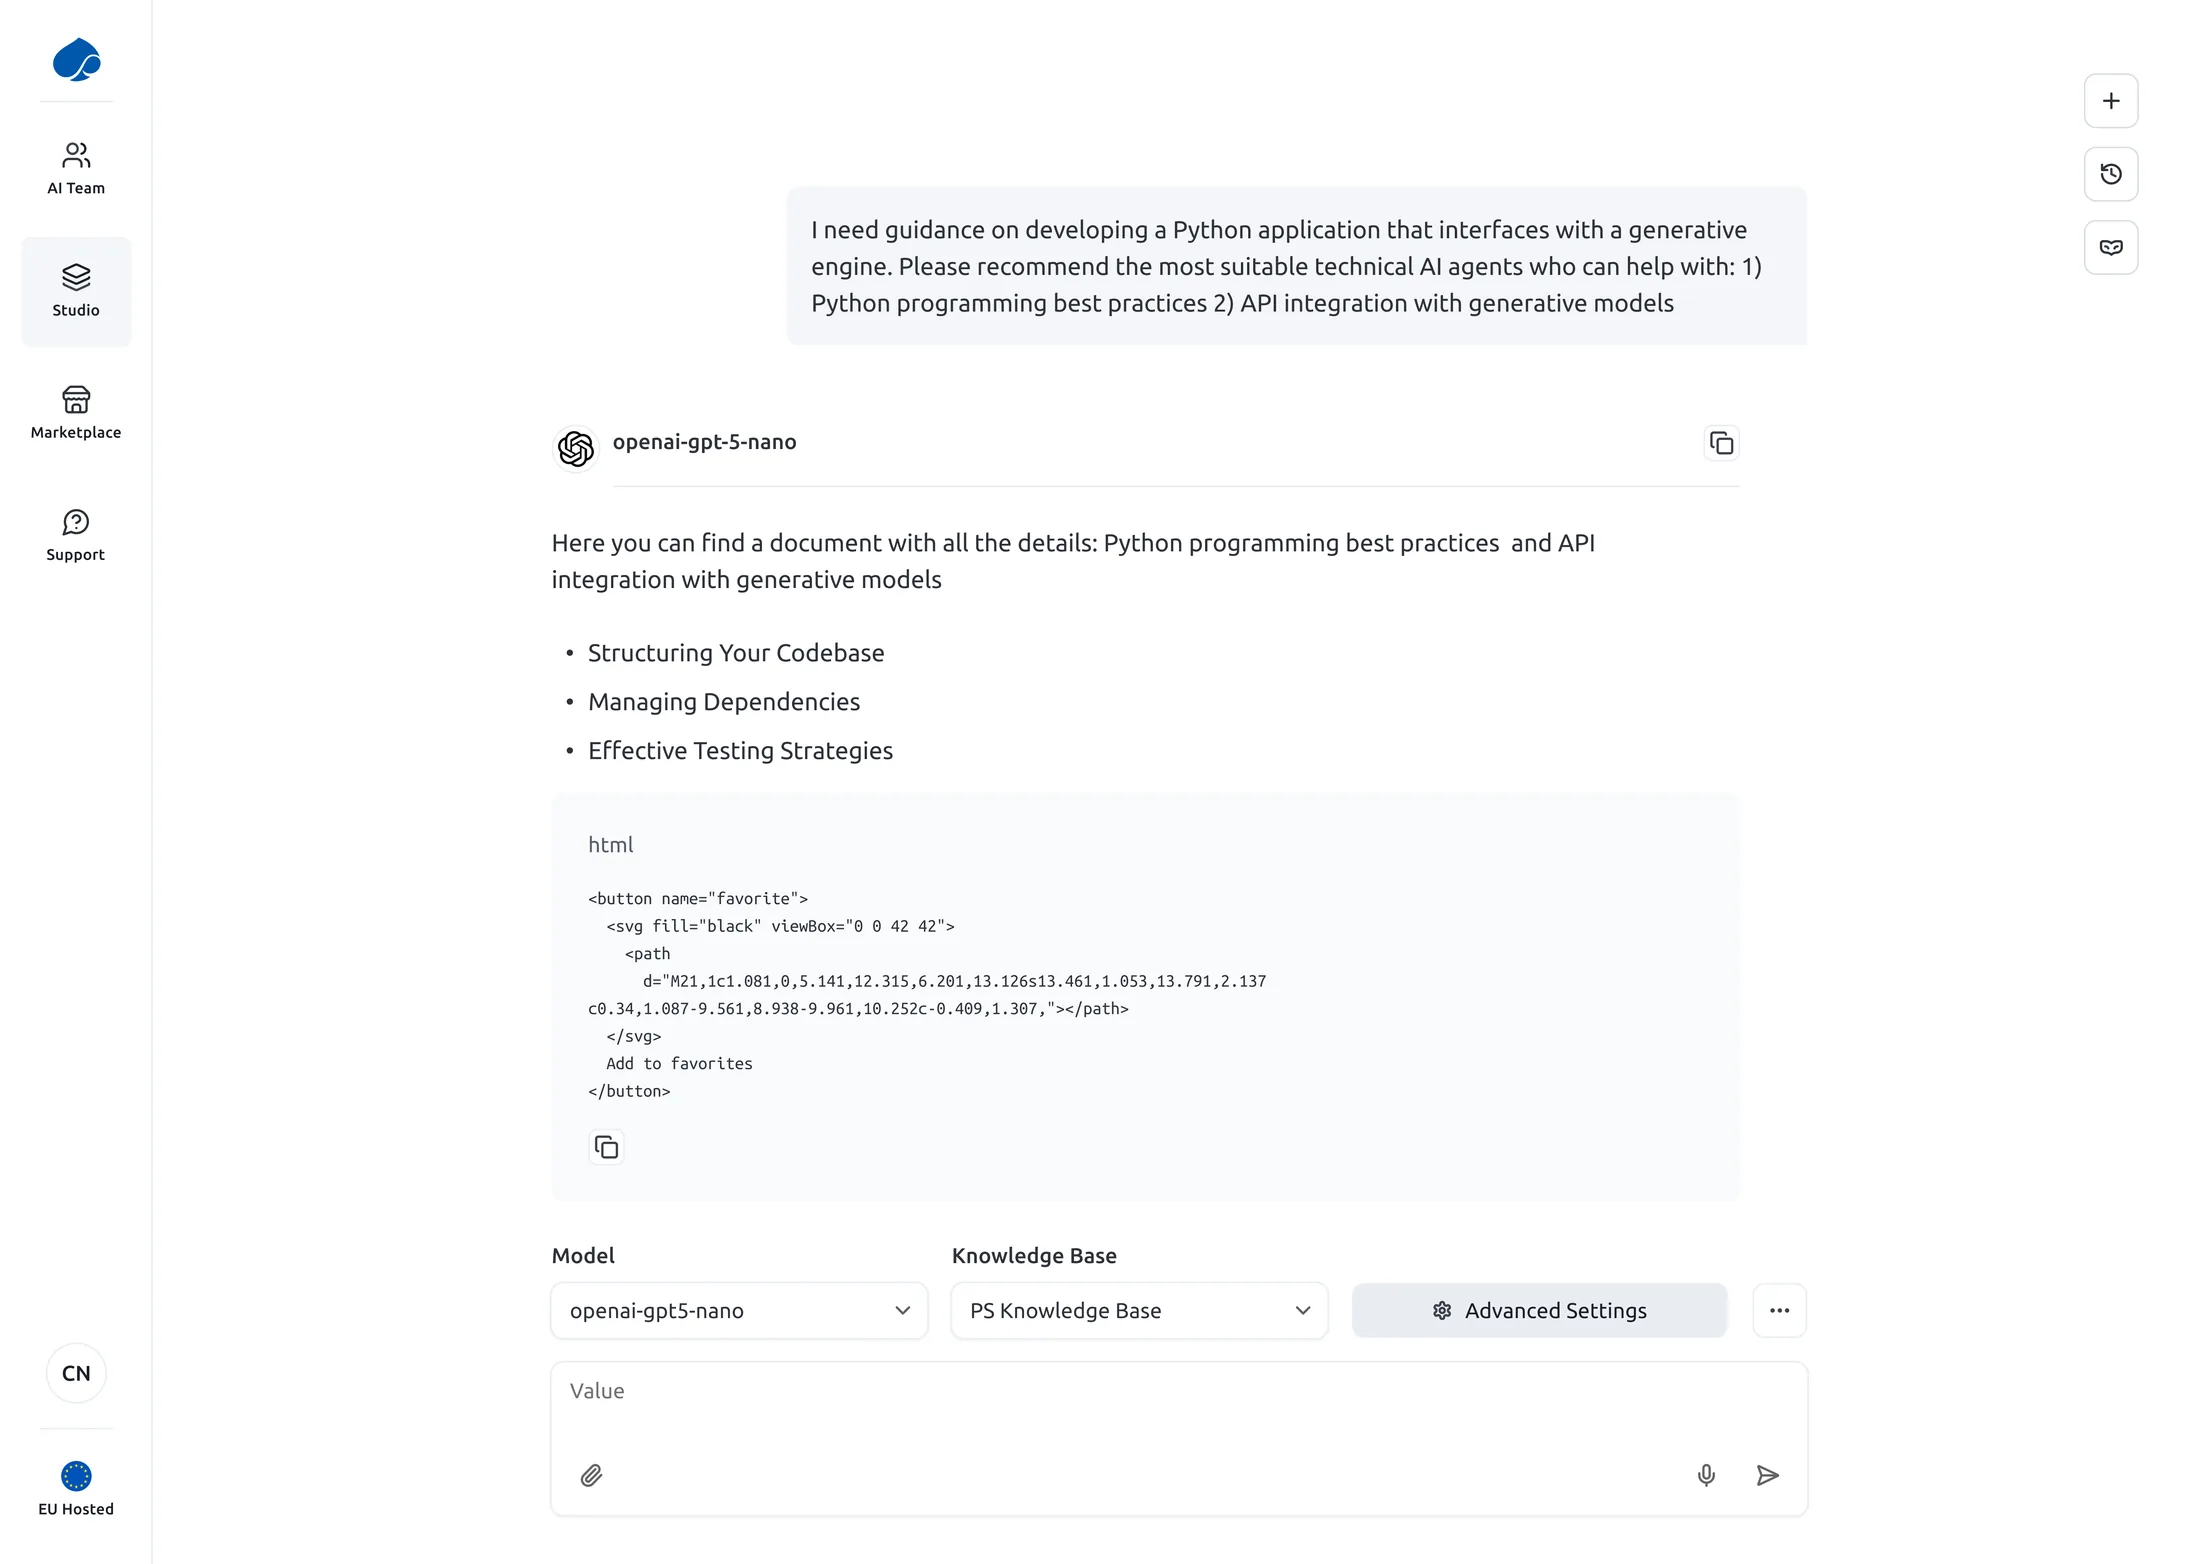
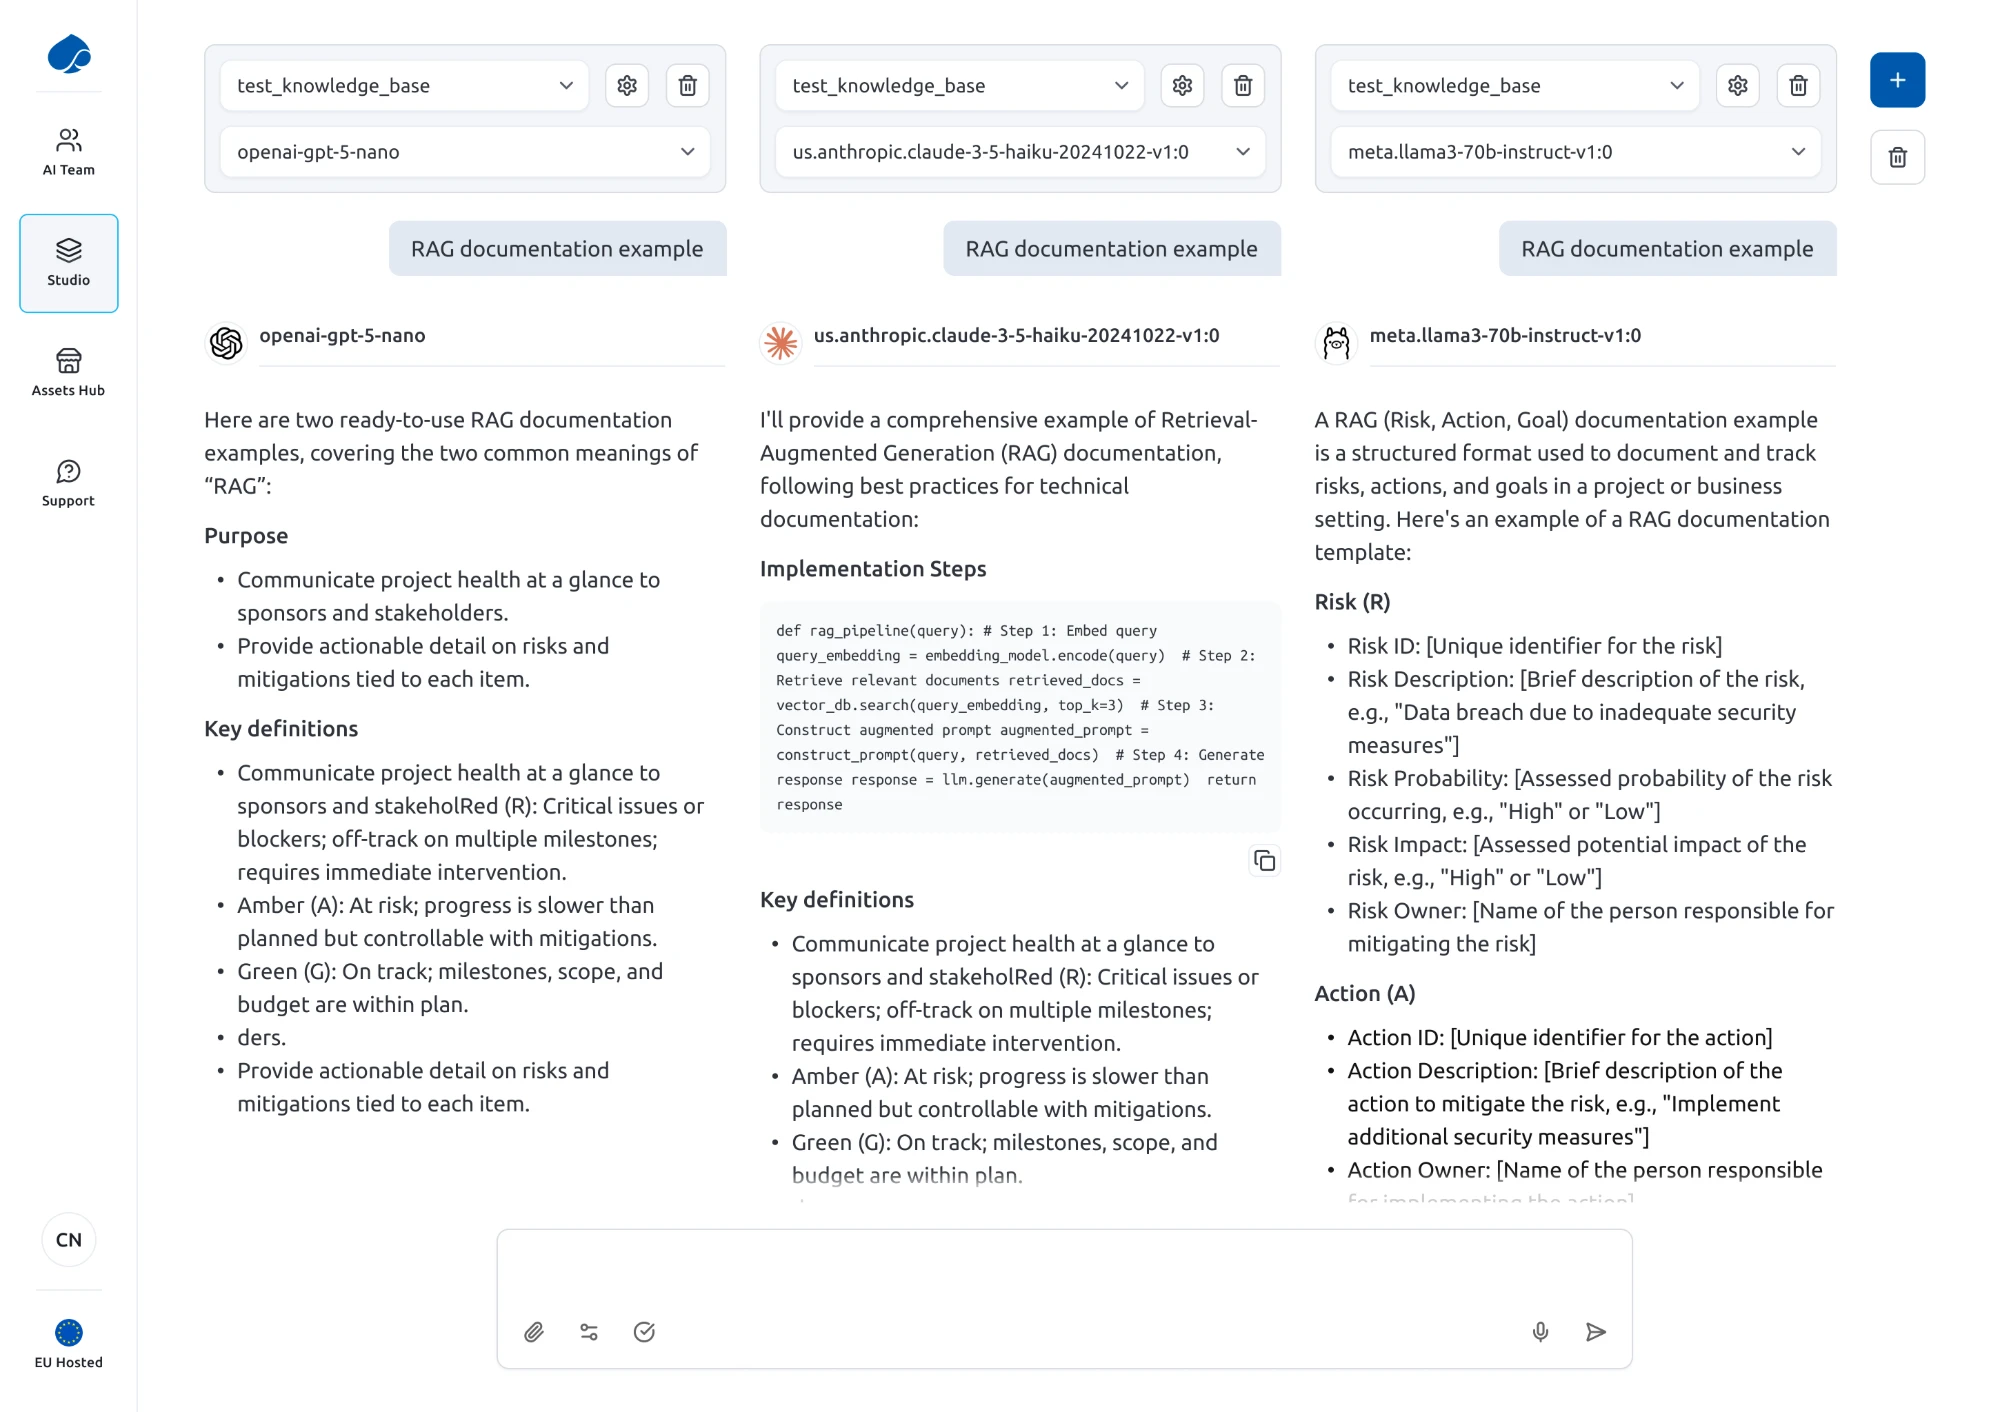
Replace Studio Playground screenshot with multi-model comparison view

diff --git a/src/app/case-studies/generative-engine/page.tsx b/src/app/case-studies/generative-engine/page.tsx
@@ -1027,7 +1027,7 @@ export default function GenAiEngineeringCaseStudy() {
                   loading="lazy"
                   decoding="async"
                 src="/figma/studio-conversation.webp"
-                alt="Studio Playground - conversation view with model selector, knowledge base, and AI response containing markdown and a code snippet"
+                alt="Studio Playground - side-by-side model comparison: the same RAG documentation prompt answered by openai-gpt-5-nano, Claude 3.5 Haiku, and Llama 3 70B, each with its own knowledge base and model selector"
                 className="block h-auto w-full rounded-[12px]"
               />
             </div>
